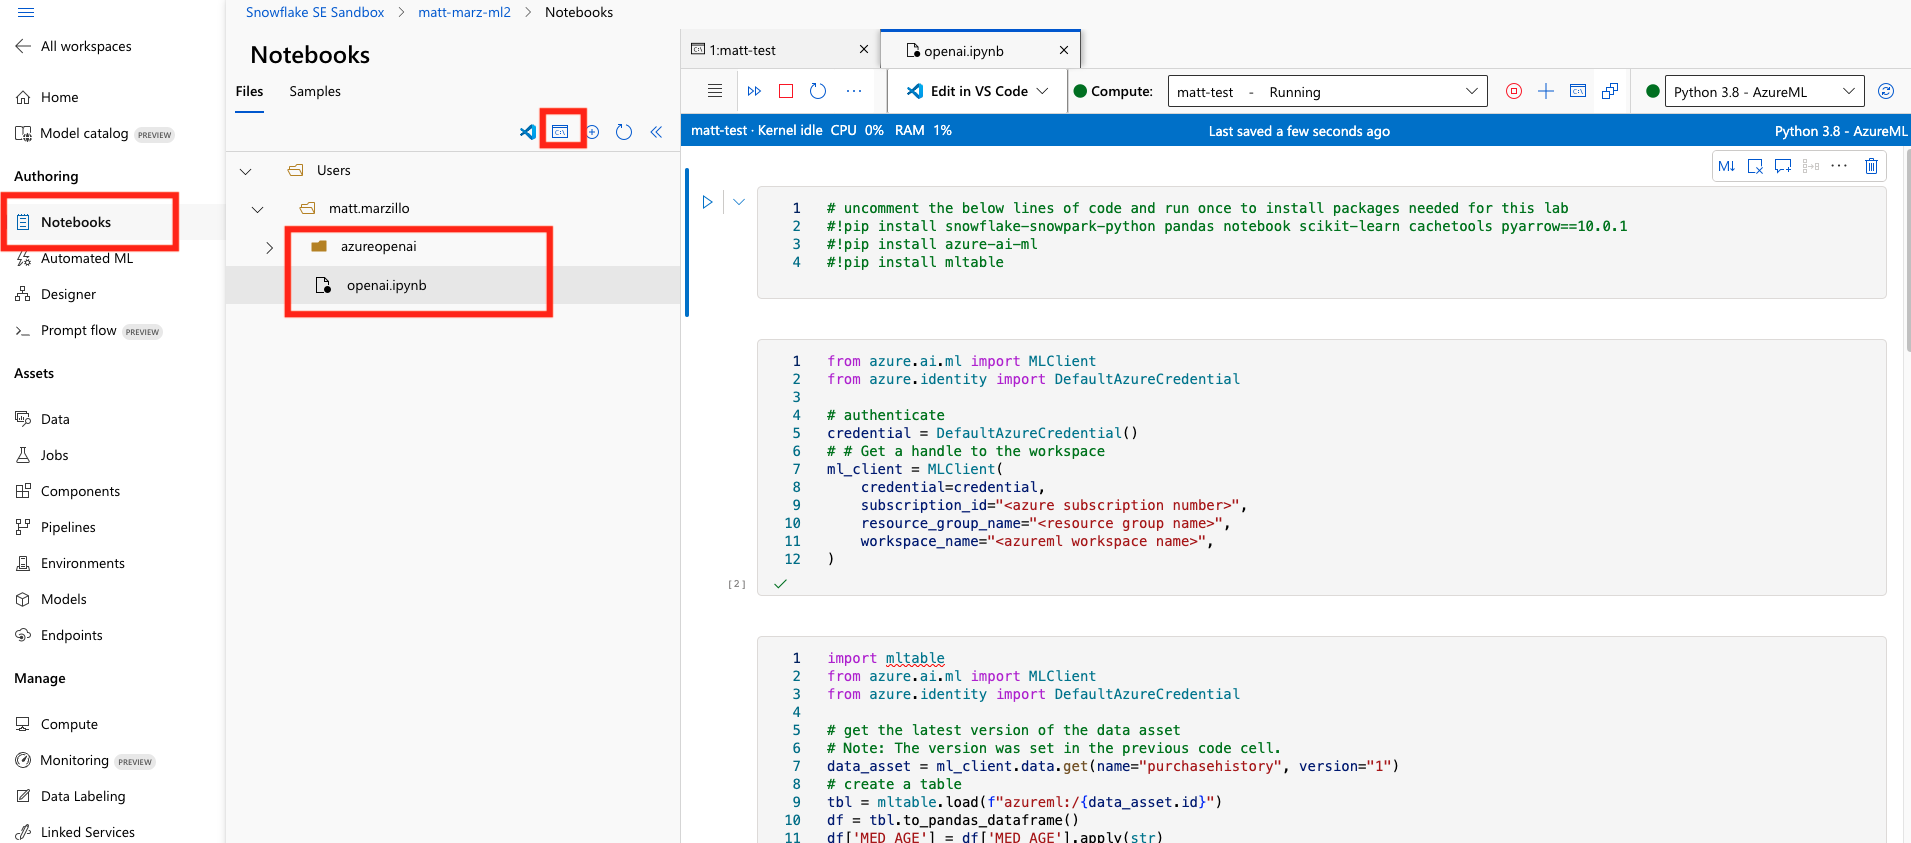
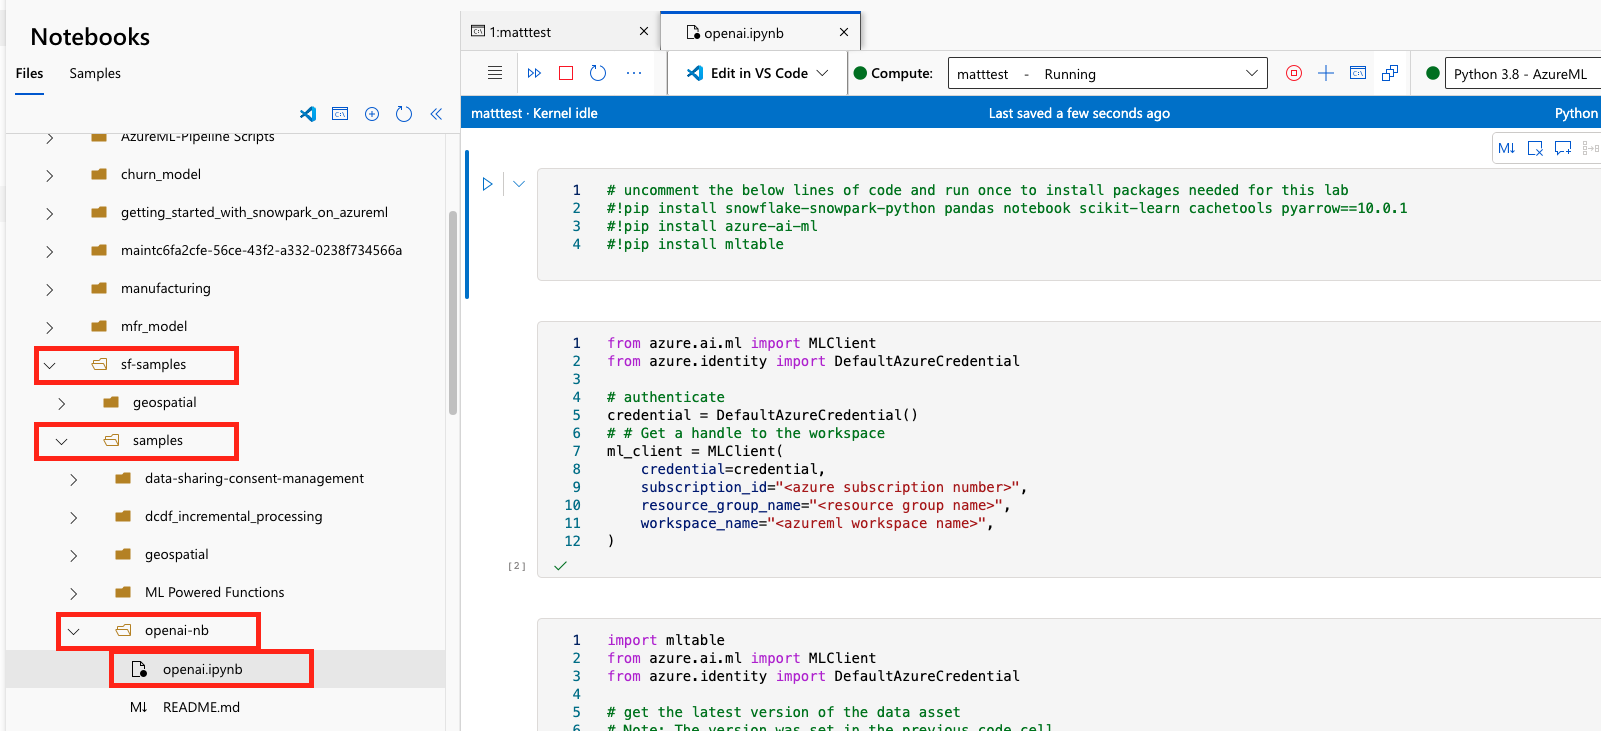
changing specifics on the notebook clone

diff --git a/site/sfguides/src/getting_started_with_azure_openai_and_snowflake/getting_started_with_azure_openai_and_snowflake.md b/site/sfguides/src/getting_started_with_azure_openai_and_snowflake/getting_started_with_azure_openai_and_snowflake.md
@@ -196,9 +196,8 @@ Duration: 10
 Head back to your AzureML Workspace and click on the notebook blade and select open terminal and start/select your compute instance near the top of the screen. In the terminal run the below code to copy the notebook that will use to orchestrate inference.
 
 ```
-git clone https://github.com/sfquickstarts/tree/master/site/sfguides/src/getting_started_with_azure_openai_and_snowflake/assets/openai-nb
+git clone https://github.com/Snowflake-Labs/sf-samples.git
 ```
-
 You may have to refresh the folder listing to see the new folder and openai.ipynb file that you will open. Your workspace should now look like this:
 ![](assets/notebook_orch.png)
 
